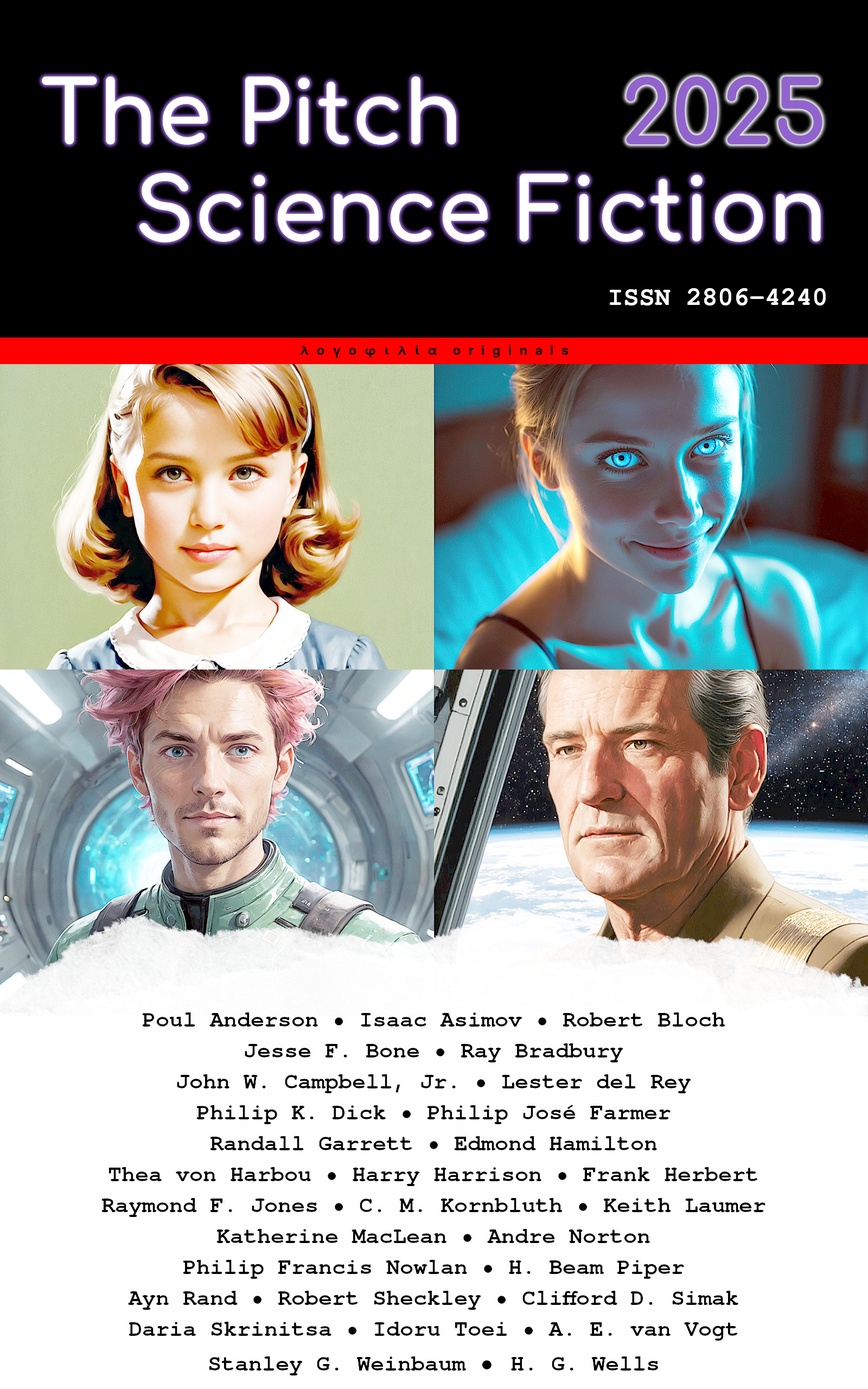
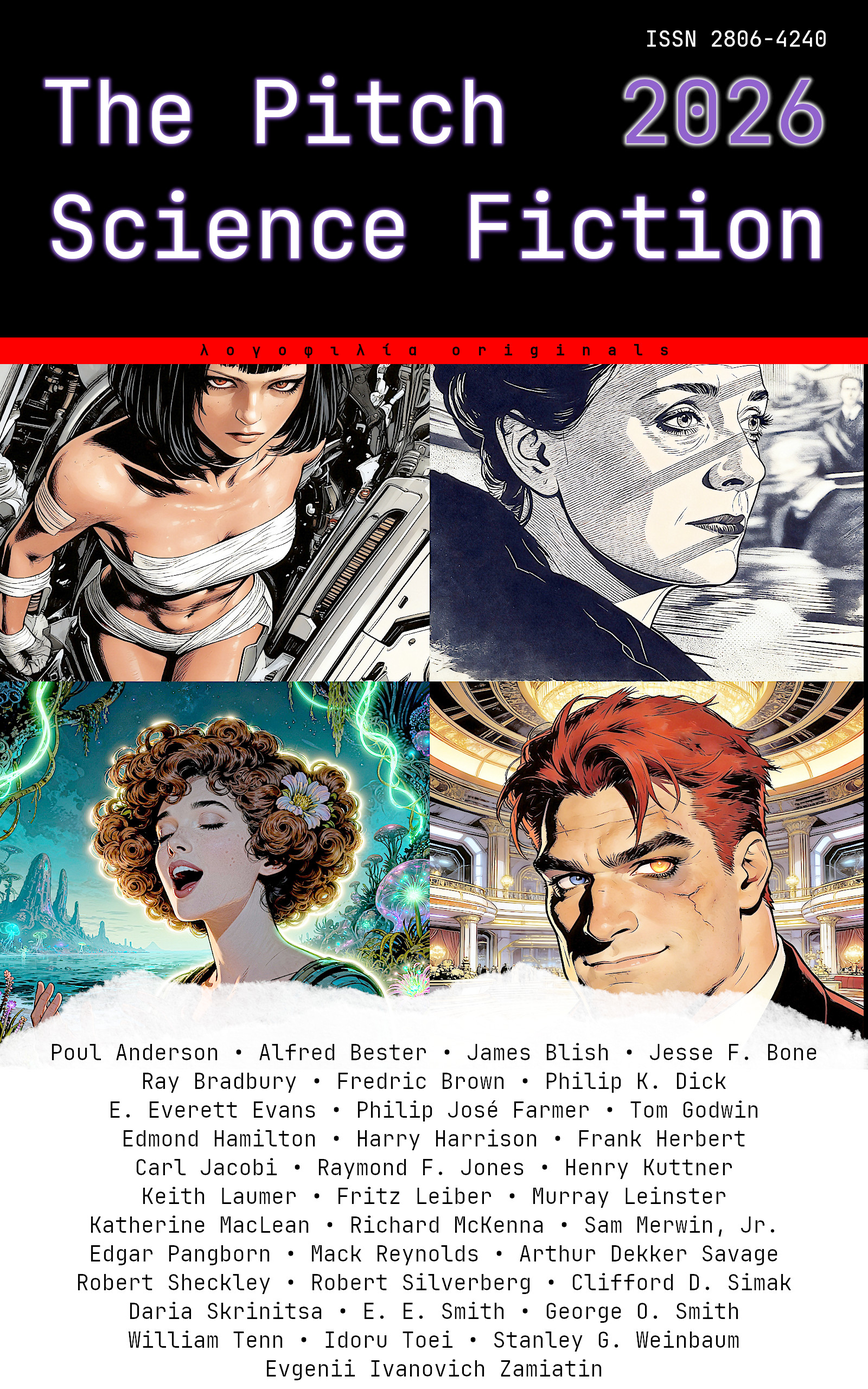
tpsf-27: new cover

diff --git a/content/publications/the-pitch-science-fiction-2026.html b/content/publications/the-pitch-science-fiction-2026.html
@@ -6,7 +6,7 @@ cross-reference-stories = ['Accept No Substitutes', 'The Misplaced Battleship', 
 cross-reference-series = ["The Pitch Science Fiction"]
 series_order = 27
 +++
-(coming soon, placeholder cover and content)
+(Amazon link coming soon)
 
 {{< publication-cover
     src="img/publications/The Pitch Science Fiction 2026.jpg"
